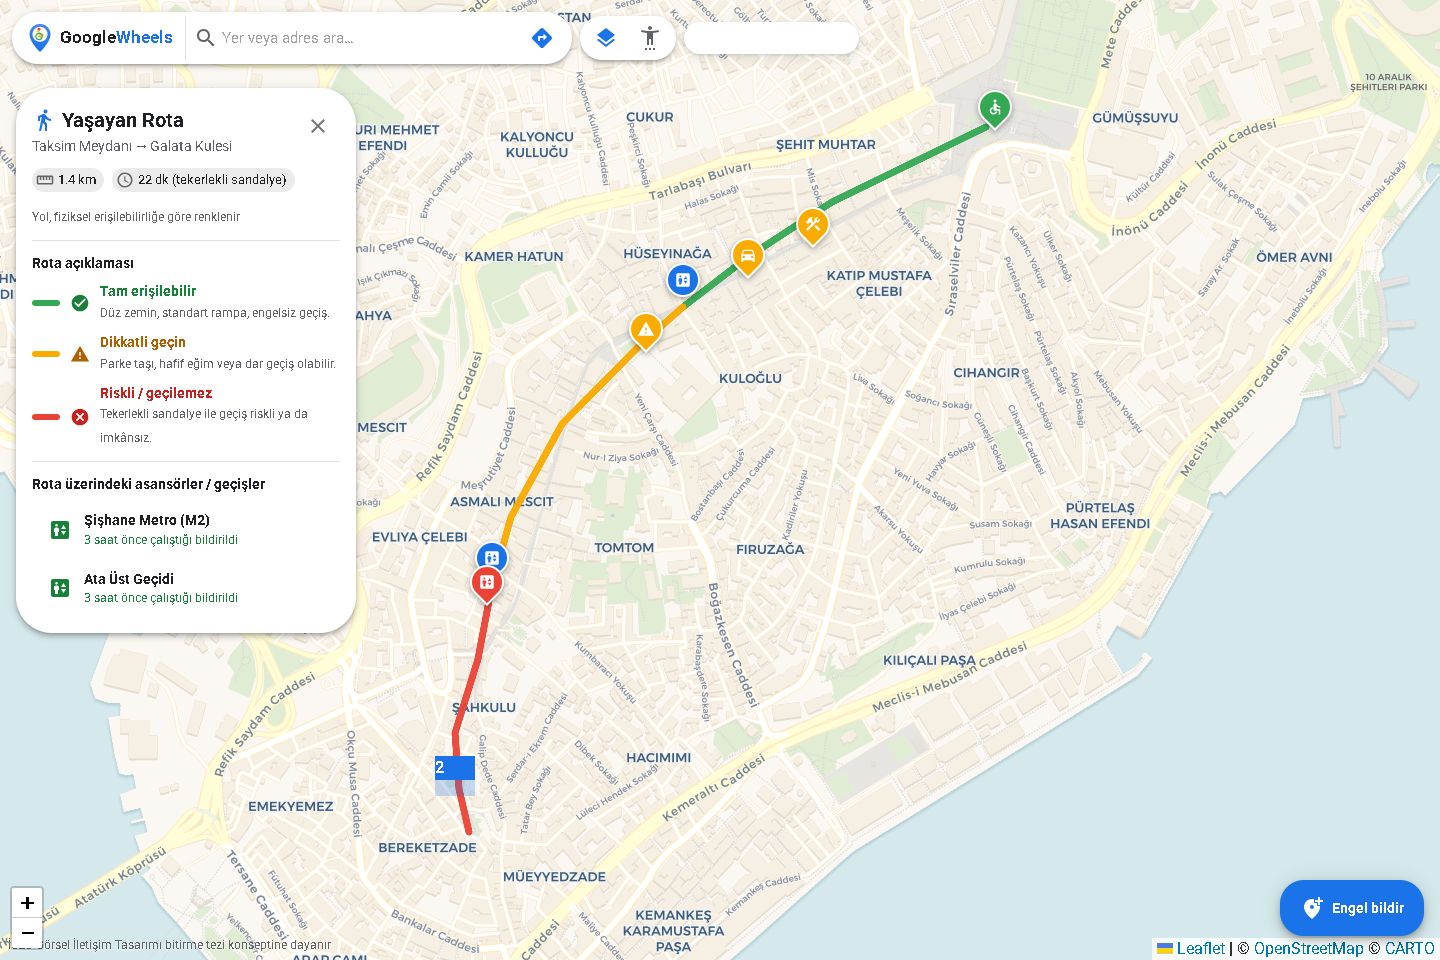
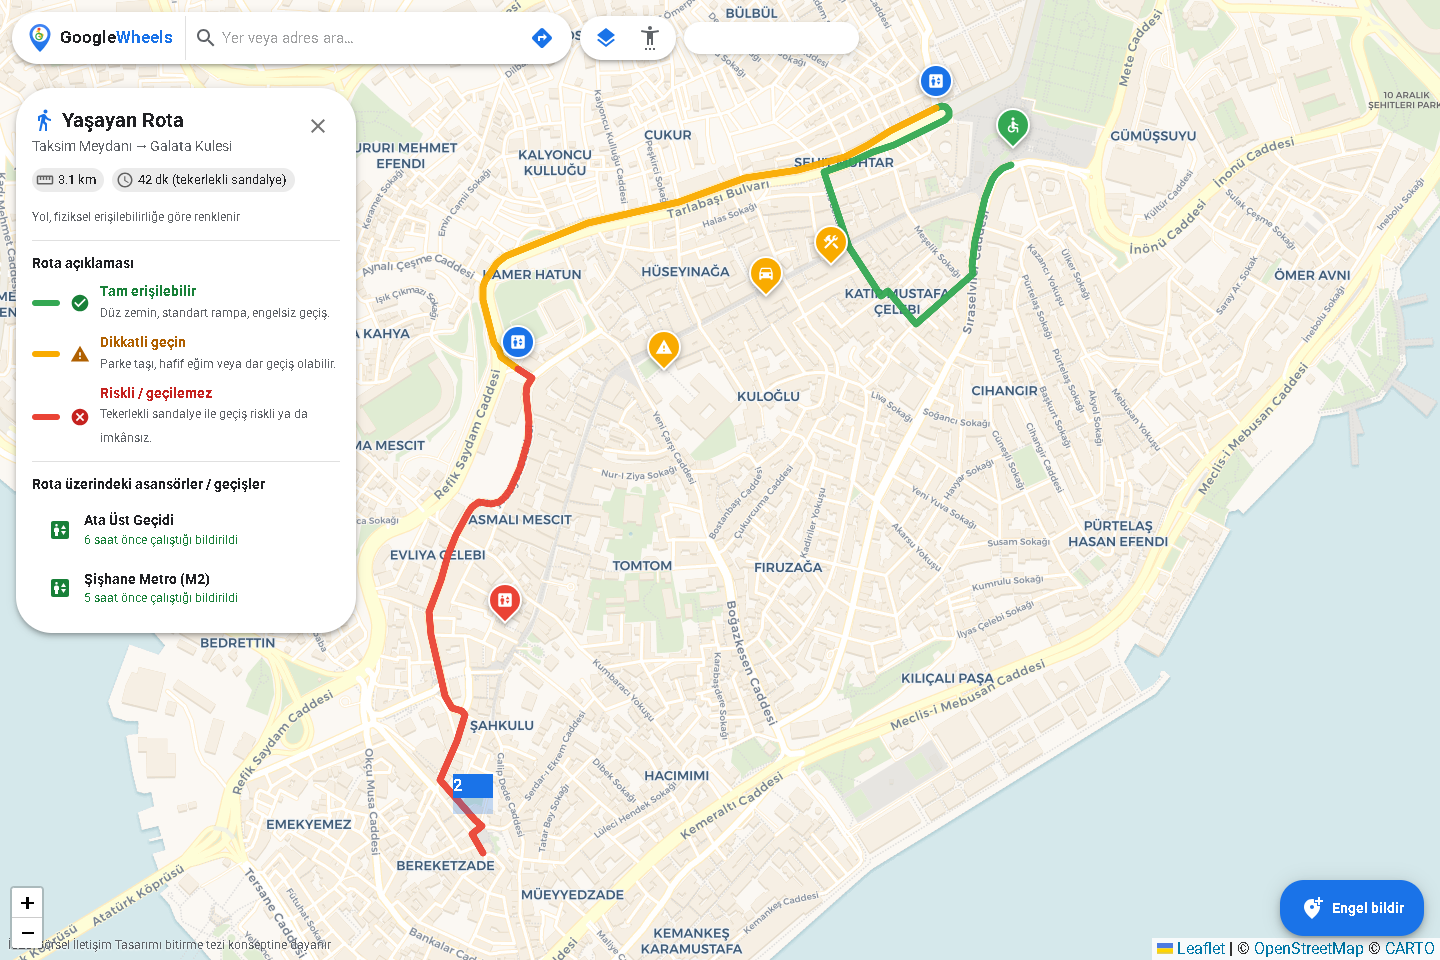
Rota gerçek yaya yol ağını takip edecek şekilde düzeltildi
Önceki gömülü rota binaların içinden geçen düz çizgilerdi. OSRM foot
profilinden alınan gerçek sokak geometrisi (Taksim→Galata) kullanıldı,
3 erişilebilirlik segmentine bölündü ve asansörler rota üzerine yerleştirildi.

diff --git a/src/data/seedRoutes.ts b/src/data/seedRoutes.ts
@@ -1,6 +1,7 @@
 import type { SeedRoute } from '../types'
 
-// Demo "Yaşayan Rota": Taksim Meydanı → Galata Kulesi (İstiklal / Galip Dede ekseni).
+// Demo "Yaşayan Rota": Taksim Meydanı → Galata Kulesi.
+// Geometri gerçek yaya yol ağından (OSRM foot) alınmış olup sokakları takip eder.
 // Segmentler fiziksel erişilebilirliğe göre renklendirilmiştir:
 //  - Yeşil: düz yaya bölgesi
 //  - Sarı: kalabalık / hafif eğim / bozuk zemin
@@ -9,59 +10,85 @@ export const taksimGalataRoute: SeedRoute = {
   id: 'route-taksim-galata',
   fromKey: 'places.taksim',
   toKey: 'places.galata',
-  distanceMeters: 1450,
-  durationMinutes: 22,
+  distanceMeters: 3084,
+  durationMinutes: 42,
   segments: [
     {
       severity: 'green',
       label: 'severity.greenDesc',
       points: [
-        [41.037, 28.9853],
-        [41.0366, 28.9842],
-        [41.0358, 28.982],
-        [41.0349, 28.9802],
-        [41.0341, 28.9788],
+        [41.036677, 28.985456], [41.036628, 28.985278], [41.036544, 28.985136], [41.036448, 28.985039],
+        [41.036313, 28.984975], [41.036153, 28.984904], [41.035707, 28.984749], [41.035682, 28.98474],
+        [41.03545, 28.984685], [41.035048, 28.984618], [41.034992, 28.984643], [41.034918, 28.984636],
+        [41.034815, 28.984476], [41.034464, 28.983941], [41.034421, 28.983882], [41.03438, 28.983819],
+        [41.034322, 28.983729], [41.034238, 28.983593], [41.034164, 28.983482], [41.034118, 28.983415],
+        [41.034541, 28.982939], [41.034643, 28.982821], [41.03456, 28.982673], [41.035031, 28.982245],
+        [41.035355, 28.981976], [41.035386, 28.981957], [41.035398, 28.981951], [41.035435, 28.981929],
+        [41.035991, 28.981674], [41.036242, 28.981568], [41.036502, 28.981459], [41.036568, 28.981432],
+        [41.036698, 28.981942], [41.036833, 28.982324], [41.036894, 28.982491], [41.036942, 28.982747],
+        [41.03701, 28.982949], [41.037086, 28.983166], [41.037222, 28.98352], [41.037416, 28.984035],
+        [41.037432, 28.984063], [41.037448, 28.984089], [41.037476, 28.984116], [41.037502, 28.984128],
+        [41.037526, 28.984131], [41.037561, 28.984123], [41.037587, 28.984105], [41.037607, 28.98408],
+        [41.037622, 28.98405], [41.037631, 28.984011], [41.037632, 28.983969], [41.037626, 28.983922],
+        [41.037602, 28.983848],
       ],
     },
     {
       severity: 'yellow',
       label: 'severity.yellowDesc',
       points: [
-        [41.0341, 28.9788],
-        [41.0335, 28.9779],
-        [41.0322, 28.9762],
-        [41.0307, 28.9751],
-        [41.0296, 28.9747],
+        [41.037602, 28.983848], [41.037407, 28.983324], [41.03723, 28.982846], [41.037128, 28.9826],
+        [41.037001, 28.982392], [41.036817, 28.981895], [41.036693, 28.981371], [41.03661, 28.980879],
+        [41.03656, 28.980459], [41.036487, 28.979845], [41.036472, 28.979739], [41.036461, 28.979701],
+        [41.036341, 28.979256], [41.03609, 28.978331], [41.036034, 28.978078], [41.035974, 28.977723],
+        [41.035917, 28.977383], [41.03589, 28.977219], [41.035878, 28.977147], [41.03581, 28.97673],
+        [41.035786, 28.976567], [41.035745, 28.976376], [41.035695, 28.976178], [41.035629, 28.975945],
+        [41.035525, 28.975622], [41.03527, 28.97478], [41.035233, 28.974674], [41.035204, 28.974606],
+        [41.035162, 28.974531], [41.035097, 28.974433], [41.035006, 28.97433], [41.034918, 28.974243],
+        [41.034863, 28.974204], [41.034806, 28.974167], [41.03471, 28.974131], [41.034637, 28.974119],
+        [41.034563, 28.974122], [41.034507, 28.974133], [41.034445, 28.97415], [41.034324, 28.974192],
+        [41.034145, 28.974255], [41.034026, 28.974294], [41.033805, 28.974362], [41.03376, 28.974404],
+        [41.033729, 28.974433], [41.033693, 28.974457], [41.03365, 28.974473], [41.033607, 28.974485],
+        [41.033569, 28.97451], [41.033557, 28.974522], [41.03353, 28.974571], [41.033406, 28.974822],
+        [41.033382, 28.974872],
       ],
     },
     {
       severity: 'red',
       label: 'severity.redDesc',
       points: [
-        [41.0296, 28.9747],
-        [41.0284, 28.9744],
-        [41.0272, 28.9739],
-        [41.0263, 28.974],
-        [41.0256, 28.9742],
+        [41.033382, 28.974872], [41.033243, 28.975174], [41.033113, 28.975067], [41.032972, 28.975036],
+        [41.032675, 28.975083], [41.032631, 28.975092], [41.032528, 28.975114], [41.032379, 28.975112],
+        [41.032233, 28.975079], [41.031976, 28.97499], [41.031786, 28.974912], [41.031596, 28.974809],
+        [41.031431, 28.97471], [41.031288, 28.974564], [41.031223, 28.974461], [41.031204, 28.974298],
+        [41.031226, 28.974164], [41.031231, 28.974039], [41.031226, 28.97403], [41.031146, 28.973889],
+        [41.031047, 28.9738], [41.030695, 28.973547], [41.030367, 28.973366], [41.029971, 28.973222],
+        [41.029446, 28.97296], [41.029355, 28.972958], [41.029077, 28.973017], [41.028643, 28.973137],
+        [41.028551, 28.973177], [41.028354, 28.973228], [41.028284, 28.973246], [41.028144, 28.973294],
+        [41.028085, 28.973315], [41.027973, 28.973391], [41.027897, 28.973458], [41.027857, 28.973541],
+        [41.027843, 28.973666], [41.027777, 28.973735], [41.027356, 28.973569], [41.027219, 28.973483],
+        [41.026825, 28.973256], [41.026726, 28.9732], [41.026461, 28.973554], [41.026078, 28.973943],
+        [41.026008, 28.974066], [41.025986, 28.974104], [41.025939, 28.97401], [41.025858, 28.973878],
+        [41.02575, 28.973973], [41.025677, 28.974046], [41.025583, 28.974095], [41.025555, 28.974124],
       ],
     },
   ],
   elevators: [
     {
-      id: 'elev-sishane',
-      name: 'Şişhane Metro (M2)',
-      lat: 41.0296,
-      lng: 28.9747,
-      status: 'working',
-      reported_at: '2026-05-30T08:55:00.000Z',
-    },
-    {
       id: 'elev-ata-ustgecit',
       name: 'Ata Üst Geçidi',
-      lat: 41.0341,
-      lng: 28.9788,
+      lat: 41.037602,
+      lng: 28.983848,
       status: 'working',
       reported_at: '2026-05-30T08:30:00.000Z',
+    },
+    {
+      id: 'elev-sishane',
+      name: 'Şişhane Metro (M2)',
+      lat: 41.033382,
+      lng: 28.974872,
+      status: 'working',
+      reported_at: '2026-05-30T08:55:00.000Z',
     },
   ],
 }
